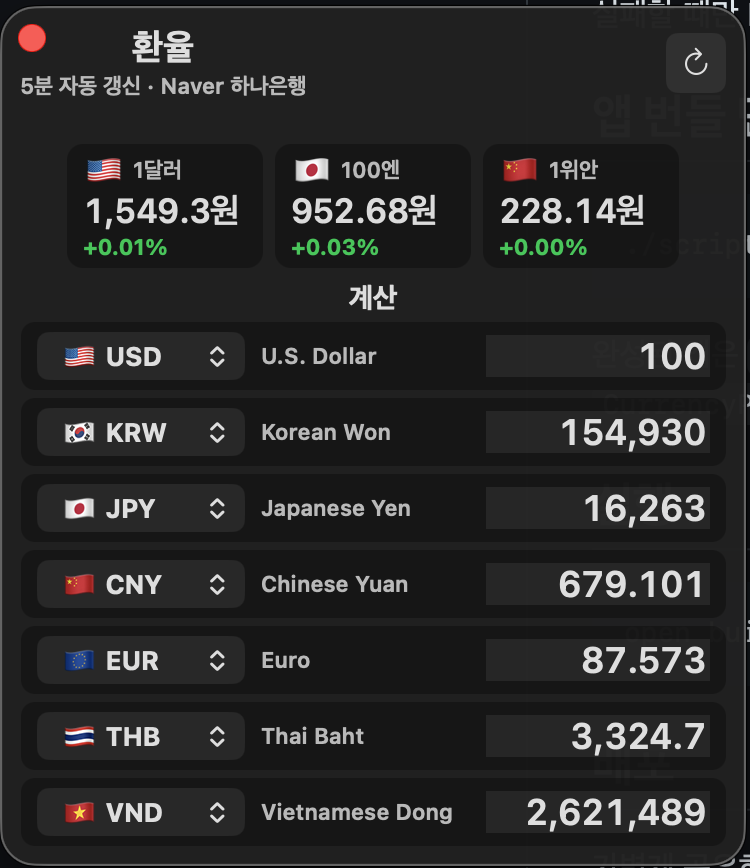
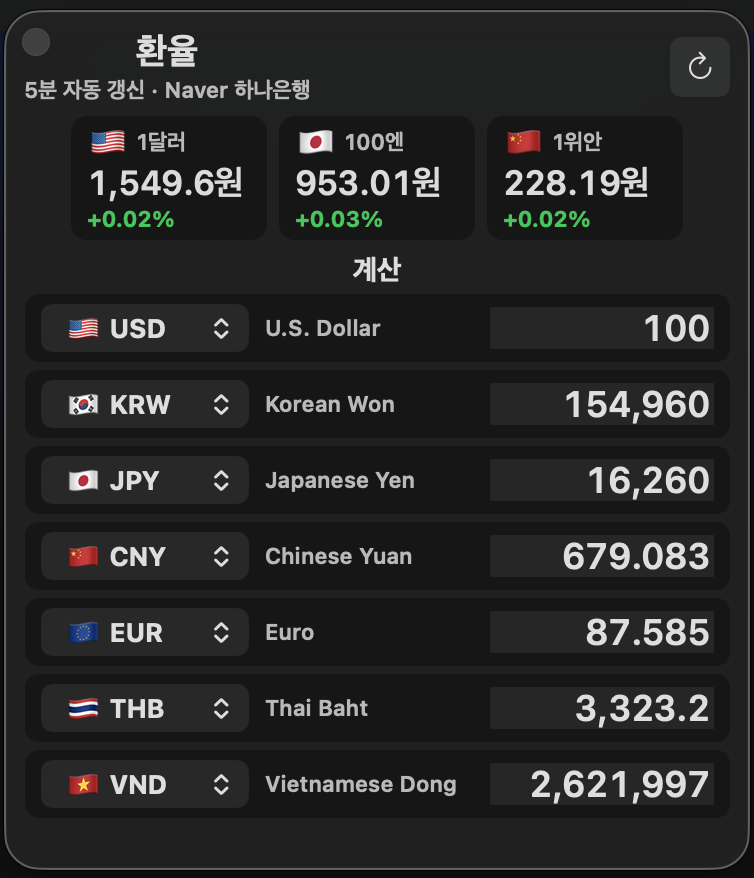
Rewrite README for global audience

diff --git a/README.md b/README.md
@@ -1,71 +1,106 @@
 # CurrencyPanel
 
-macOS에서 항상 띄워두고 보는 작고 빠른 환율 패널입니다.
+A compact macOS currency panel designed to stay open on your desktop.
 
-한국에서 자주 확인하는 `1달러`, `100엔`, `1위안`의 원화 기준 환율을 먼저 보여주고, 아래 계산기에서는 USD, KRW, JPY, CNY, EUR, THB, VND 등 여러 통화를 한 번에 변환할 수 있습니다.
+CurrencyPanel shows the exchange rates Korean users most often check at a glance: **1 USD in KRW**, **100 JPY in KRW**, and **1 CNY in KRW**. It also includes a multi-currency calculator where editing any currency automatically updates all the others.
+
+한국에서 자주 보는 `1달러`, `100엔`, `1위안` 기준 환율과 다중 통화 계산기를 한 화면에 띄워두는 macOS 앱입니다.
 
 ![CurrencyPanel screenshot](docs/screenshot.png)
 
-## 이런 앱입니다
+## Why This App?
 
-CurrencyPanel은 브라우저를 열거나 포털 검색을 반복하지 않고도, 데스크톱 한쪽에 계속 띄워두고 환율을 확인하기 위한 macOS 앱입니다.
+Most currency apps are either too large, too slow to glance at, or focused on one-off conversion. CurrencyPanel is meant to be left open all day, like a small market widget on the side of your screen.
 
-상단에는 한국에서 익숙한 방식의 핵심 환율을 고정 표시합니다.
+It is especially useful if you frequently compare Korean won with USD, JPY, CNY, EUR, THB, or VND while shopping, traveling, investing, working with overseas prices, or checking international payments.
 
-- `1달러 = 원`
-- `100엔 = 원`
-- `1위안 = 원`
+## Features
 
-아래 계산기에서는 아무 통화 칸에나 숫자를 입력하면 나머지 통화가 동시에 바뀝니다. 예를 들어 USD에 `100`을 입력하면 KRW, JPY, CNY, EUR, THB, VND가 한 번에 계산됩니다. 반대로 KRW나 JPY 칸에 직접 입력해도 나머지 값이 자동으로 다시 계산됩니다.
+- Compact always-visible macOS floating panel
+- Key KRW exchange cards:
+  - `1 USD -> KRW`
+  - `100 JPY -> KRW`
+  - `1 CNY -> KRW`
+- Multi-currency calculator
+- Edit any row and all other currencies update instantly
+- Default calculator currencies:
+  - USD
+  - KRW
+  - JPY
+  - CNY
+  - EUR
+  - THB
+  - VND
+- Currency selector for each calculator row
+- Automatic refresh every 5 minutes
+- Manual refresh button
+- Change indicators compared with the previous refresh
+- Keyboard-friendly input:
+  - `Cmd+A` select all
+  - `Cmd+C` copy
+  - `Cmd+V` paste
+  - `Tab` next field
+  - `Shift+Tab` previous field
+  - `Esc` finish editing
+- macOS app icon included
 
-## 주요 기능
+## Exchange Rate Sources
 
-- Naver 모바일 증권의 하나은행 고시 환율 우선 사용
-- 5분마다 자동 갱신
-- 수동 새로고침 버튼
-- `1달러`, `100엔`, `1위안` 원화 환율 고정 표시
-- 여러 통화를 동시에 변환하는 계산기
-- 계산기 통화 드롭다운 변경
-- 이전 갱신값 대비 변화율 표시
-- 숫자 칸 `Cmd+A`, `Cmd+C`, `Cmd+V`, `Tab`, `Shift+Tab`, `Esc` 지원
-- macOS용 작은 플로팅 윈도우
-- 앱 아이콘 포함
+CurrencyPanel prioritizes exchange rates that feel familiar to Korean users.
 
-## 환율 데이터
+Source priority:
 
-기본 환율 데이터는 Naver 모바일 증권의 하나은행 고시 환율을 사용합니다.
-
-데이터 소스 우선순위는 다음과 같습니다.
-
-1. Naver 모바일 증권 하나은행 고시 환율
+1. Naver mobile finance, Hana Bank exchange rates
 2. Yahoo Finance
 3. ExchangeRate-API open endpoint
 
-상단 핵심 환율과 아래 계산기는 같은 환율 스냅샷을 사용하도록 맞춰져 있습니다.
+The top exchange cards and the calculator use the same rate snapshot, so the values stay consistent across the app.
 
-## 빌드
+## Installation for Users
 
-Xcode 프로젝트 없이 Command Line Tools와 AppKit으로 빌드합니다.
+If a prebuilt release is available, download it from the GitHub Releases page:
+
+```text
+https://github.com/LemonMuscat/Currency/releases
+```
+
+Then:
+
+1. Download the `.zip` or `.dmg` file.
+2. Open it.
+3. Move `CurrencyPanel.app` to your Applications folder if desired.
+4. Launch the app.
+
+If the app is not notarized yet, macOS may show a security warning. In that case, right-click the app and choose **Open**.
+
+## Build From Source
+
+This project builds a native macOS AppKit app without an Xcode project.
+
+Requirements:
+
+- macOS
+- Xcode Command Line Tools
+
+Build:
 
 ```sh
 ./scripts/build_app.sh
 ```
 
-완성된 앱은 다음 위치에 만들어집니다.
+The app bundle will be created here:
 
 ```text
 build/CurrencyPanel.app
 ```
 
-## 실행
+Run:
 
 ```sh
 open build/CurrencyPanel.app
 ```
 
-## 다른 Mac에서 사용하기
-
-저장소를 받은 뒤 빌드하면 됩니다.
+## Clone on Another Mac
 
 ```sh
 git clone https://github.com/LemonMuscat/Currency.git
@@ -74,12 +109,54 @@ cd Currency
 open build/CurrencyPanel.app
 ```
 
-## 배포
+## Why Is `build/` Not Committed?
 
-가볍게 공유하려면 `build/CurrencyPanel.app`을 zip으로 압축해 전달할 수 있습니다.
+The `build/` folder contains generated files, including `CurrencyPanel.app`.
 
-일반 사용자에게 보안 경고를 줄여 배포하려면 Apple Developer ID 서명과 notarization이 필요합니다.
+Generated app bundles are usually **not committed to the source repository** because they can be rebuilt from the source code and may be large or platform-specific.
 
-## 참고
+For end users, prebuilt apps should be distributed through **GitHub Releases**, not committed directly into the main repository.
 
-현재 앱은 작은 런처가 같은 앱 번들 안의 `CurrencyPanelRuntime`을 별도 프로세스로 띄우는 구조입니다. 창 관리 앱과의 호환성을 위해 실제 런타임은 앱 번들 내부의 고정 경로에서 실행됩니다.
+Recommended structure:
+
+- Repository source code: `Sources/`, `Resources/`, `scripts/`, `README.md`
+- Generated local build: `build/CurrencyPanel.app`
+- Public downloadable app: GitHub Releases asset, such as `CurrencyPanel.zip` or `CurrencyPanel.dmg`
+
+## Distribution Notes
+
+For personal sharing or testing, you can zip the app bundle:
+
+```sh
+./scripts/build_app.sh
+cd build
+zip -r CurrencyPanel.zip CurrencyPanel.app
+```
+
+Then upload `CurrencyPanel.zip` to GitHub Releases.
+
+For a smoother public macOS distribution experience, the app should eventually be signed with an Apple Developer ID and notarized by Apple. Without notarization, users may need to use right-click -> Open the first time they launch it.
+
+## Project Structure
+
+```text
+Currency/
+├── Resources/
+│   ├── AppIcon.icns
+│   ├── AppIcon.png
+│   └── Info.plist
+├── Sources/
+│   ├── CurrencyPanel/
+│   │   └── main.m
+│   └── Launcher/
+│       └── main.c
+├── docs/
+│   └── screenshot.png
+├── scripts/
+│   └── build_app.sh
+└── README.md
+```
+
+## Implementation Note
+
+CurrencyPanel uses a small launcher process that starts `CurrencyPanelRuntime` from inside the same app bundle. This keeps the runtime path stable for macOS window managers while preserving the app's lightweight floating-panel behavior.